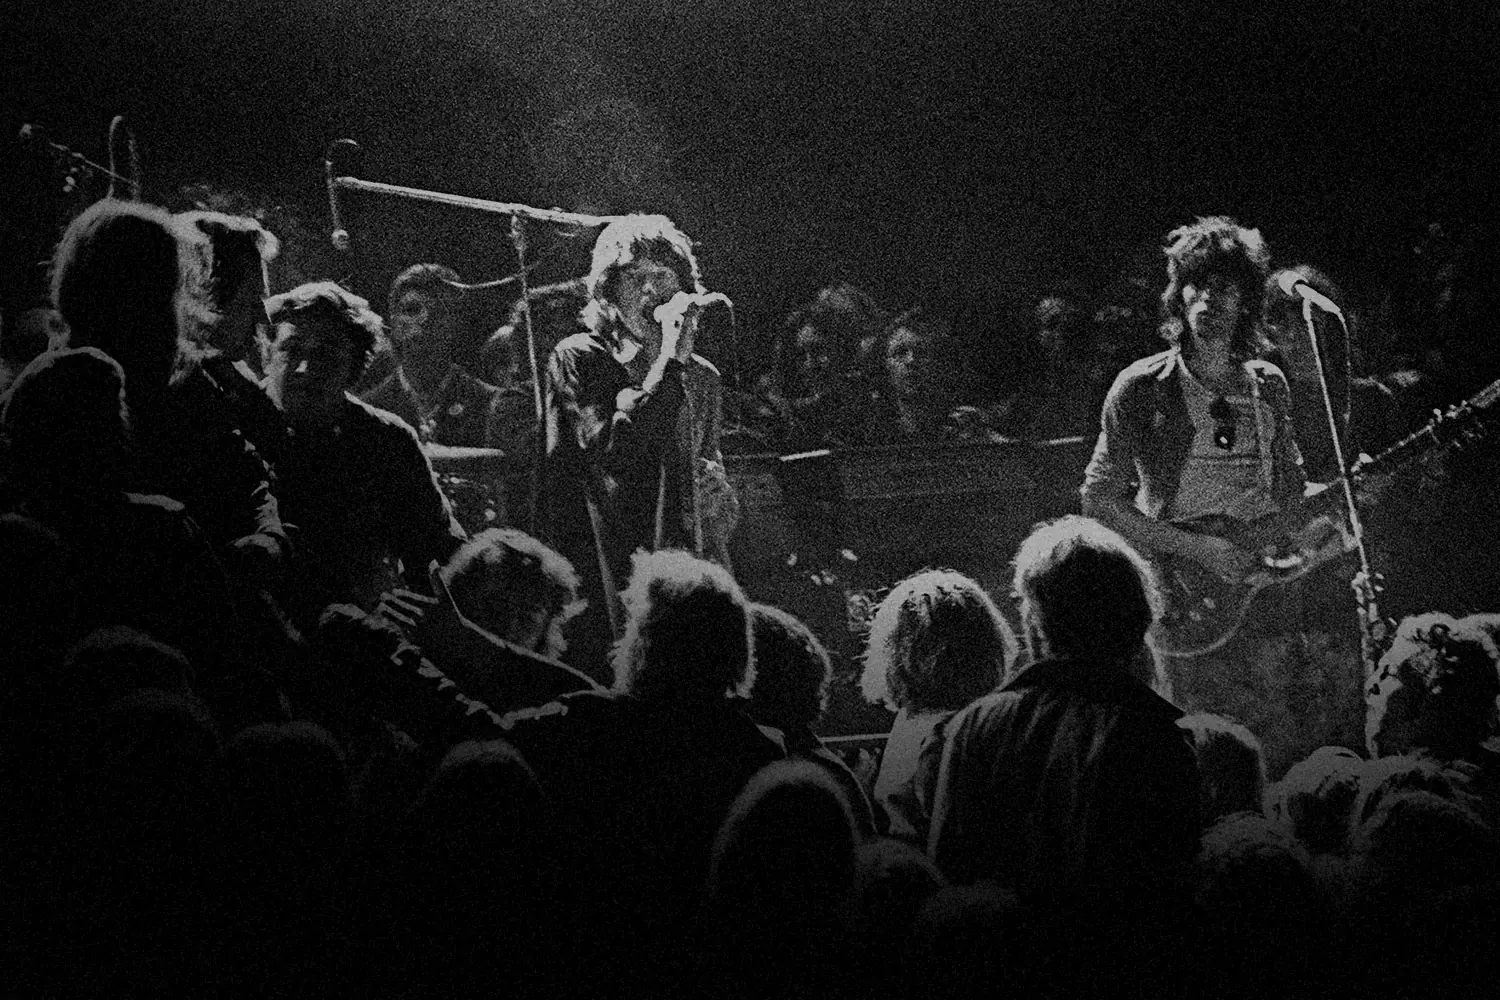
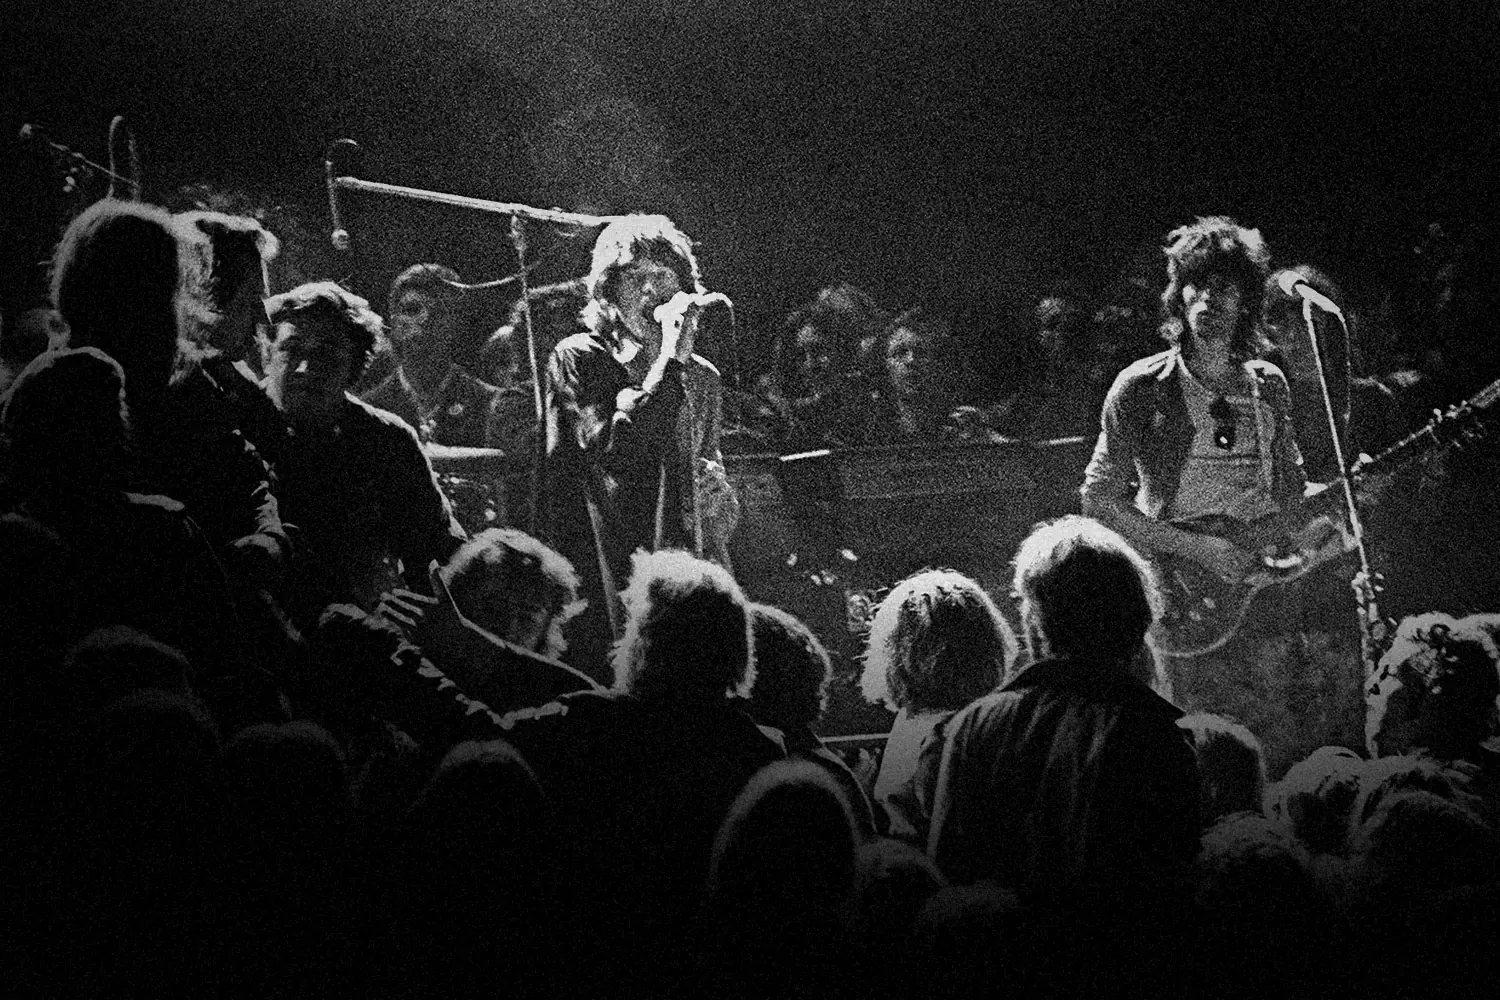
Thumbnails: ease the darkening back to a middle ground, titles still readable
Claude-Session: https://claude.ai/code/session_012hvRRtN4bxtUwdtDAPfzb9

diff --git a/index.html b/index.html
@@ -633,9 +633,9 @@ const ph = (p, i, label, ar) => `<div class="ph" style="--tint:${p.tint};--ar:${
   ${i===0?`<span class="ph-mark">${p.short}</span>`:""}
   <span class="ph-l mono">${label}</span></div>`;
 
-const img = (k, alt, eager) => { const d=IMG[k]||[1600,900]; const lock=/^(l|m)-/.test(k); return (lock?'<span class="shot-wrap">':'')+`<img class="shot" src="/work/${k}.webp?v=11071100" alt="${alt}" width="${d[0]}" height="${d[1]}" ${eager?'fetchpriority="high"':'loading="lazy"'} decoding="async">`+(lock?'</span>':''); };
+const img = (k, alt, eager) => { const d=IMG[k]||[1600,900]; const lock=/^(l|m)-/.test(k); return (lock?'<span class="shot-wrap">':'')+`<img class="shot" src="/work/${k}.webp?v=11071105" alt="${alt}" width="${d[0]}" height="${d[1]}" ${eager?'fetchpriority="high"':'loading="lazy"'} decoding="async">`+(lock?'</span>':''); };
 const USE_COVERS = false; // flip to true once every project has a matching-resolution cover
-const thumb = (p) => `<div class="ph ph-th" style="--tint:${p.tint};--ar:3/2"><img src="/work/th-${p.id}.webp?v=11071100" alt="" width="1500" height="1000" loading="lazy" decoding="async"><span class="ph-n mono">${p.n}.00</span><span class="ph-mark">${p.short}</span></div>`;
+const thumb = (p) => `<div class="ph ph-th" style="--tint:${p.tint};--ar:3/2"><img src="/work/th-${p.id}.webp?v=11071105" alt="" width="1500" height="1000" loading="lazy" decoding="async"><span class="ph-n mono">${p.n}.00</span><span class="ph-mark">${p.short}</span></div>`;
 const cover = (p, label) => thumb(p);
 const coverOld = (p, label) => (USE_COVERS && p.cover)
   ? `<div class="ph ph-img" style="--ar:3/2">${img(p.cover, p.short.replace(/&amp;/g,"&")+" project cover")}</div>`
@@ -745,7 +745,7 @@ function projectReal(p){
   const bp = b => { n++; const ks=Object.keys(b.bp); const first=ks[0];
     return `<div class="grid p-media"><div class="spec" data-bpview><div class="spec-head mono"><span class="mute">(Breakpoints) — <span class="bp-w">${BPPX[first]}px</span></span>
       <span class="seg" role="group" aria-label="Breakpoint">${ks.map(k=>`<button data-bp="${k}" aria-pressed="${k===first}">${k}</button>`).join("")}</span></div>
-      <div class="bp-stage"><div class="bp-frame" style="width:${BPW[first]}">${ks.map(k=>{const d=IMG[b.bp[k]]||[1600,1000];return `<img src="/work/${b.bp[k]}.webp?v=11071100" alt="${alt(b.cap+" — "+k)}" width="${d[0]}" height="${d[1]}" loading="lazy" decoding="async" data-k="${k}" class="${k===first?"on":""}">`}).join("")}</div></div>
+      <div class="bp-stage"><div class="bp-frame" style="width:${BPW[first]}">${ks.map(k=>{const d=IMG[b.bp[k]]||[1600,1000];return `<img src="/work/${b.bp[k]}.webp?v=11071105" alt="${alt(b.cap+" — "+k)}" width="${d[0]}" height="${d[1]}" loading="lazy" decoding="async" data-k="${k}" class="${k===first?"on":""}">`}).join("")}</div></div>
       <div class="spec-cap mono mute"><span>${b.cap}</span><span>${String(n).padStart(2,"0")}</span></div></div></div>`; };
   const tok = b => { return `<div class="grid p-media"><div class="spec"><div class="spec-head mono"><span class="mute">(Tokens) — click to copy</span><span class="mute">${b.tokens.length} values</span></div>
       <div class="tok mono">${b.tokens.map(t=>`<button data-copy="${t[1]}" style="--c:${t[1]}" aria-label="Copy ${t[0]} ${t[1]}"><i></i><span><b>${t[0]}</b><em>${t[1].toUpperCase()}</em></span></button>`).join("")}</div>
